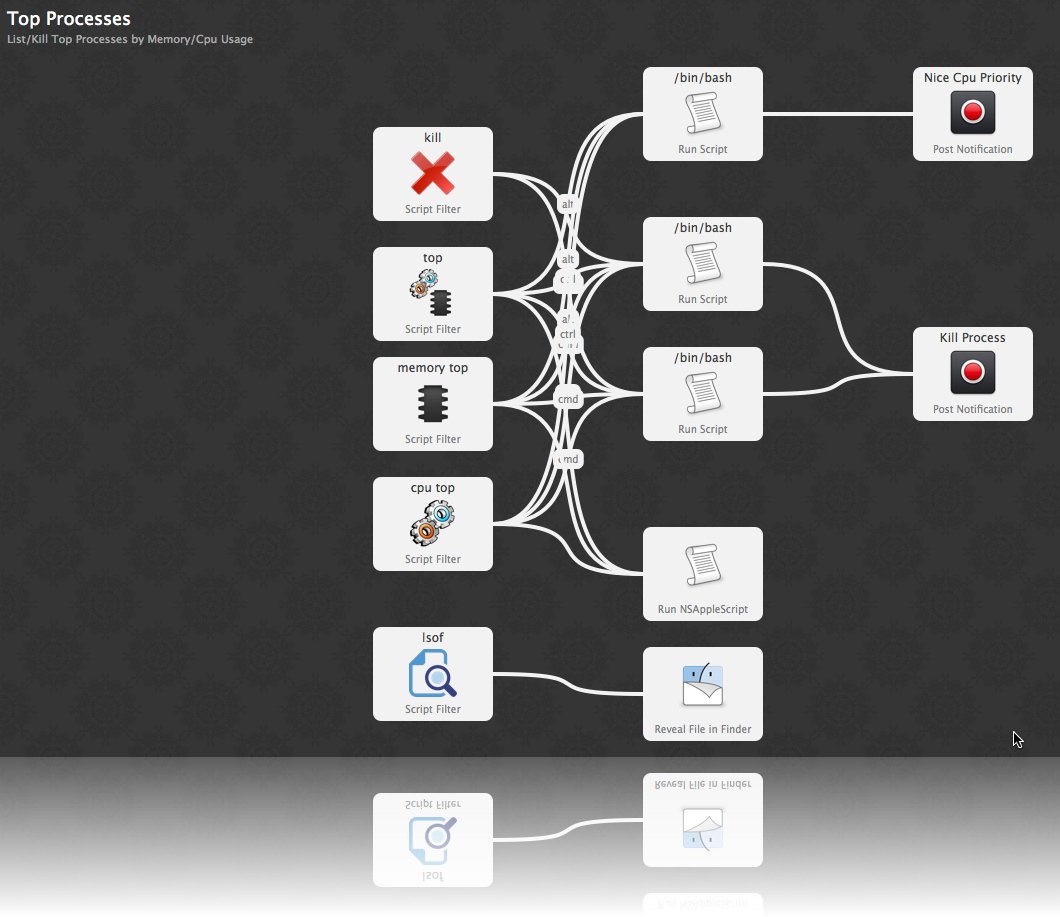
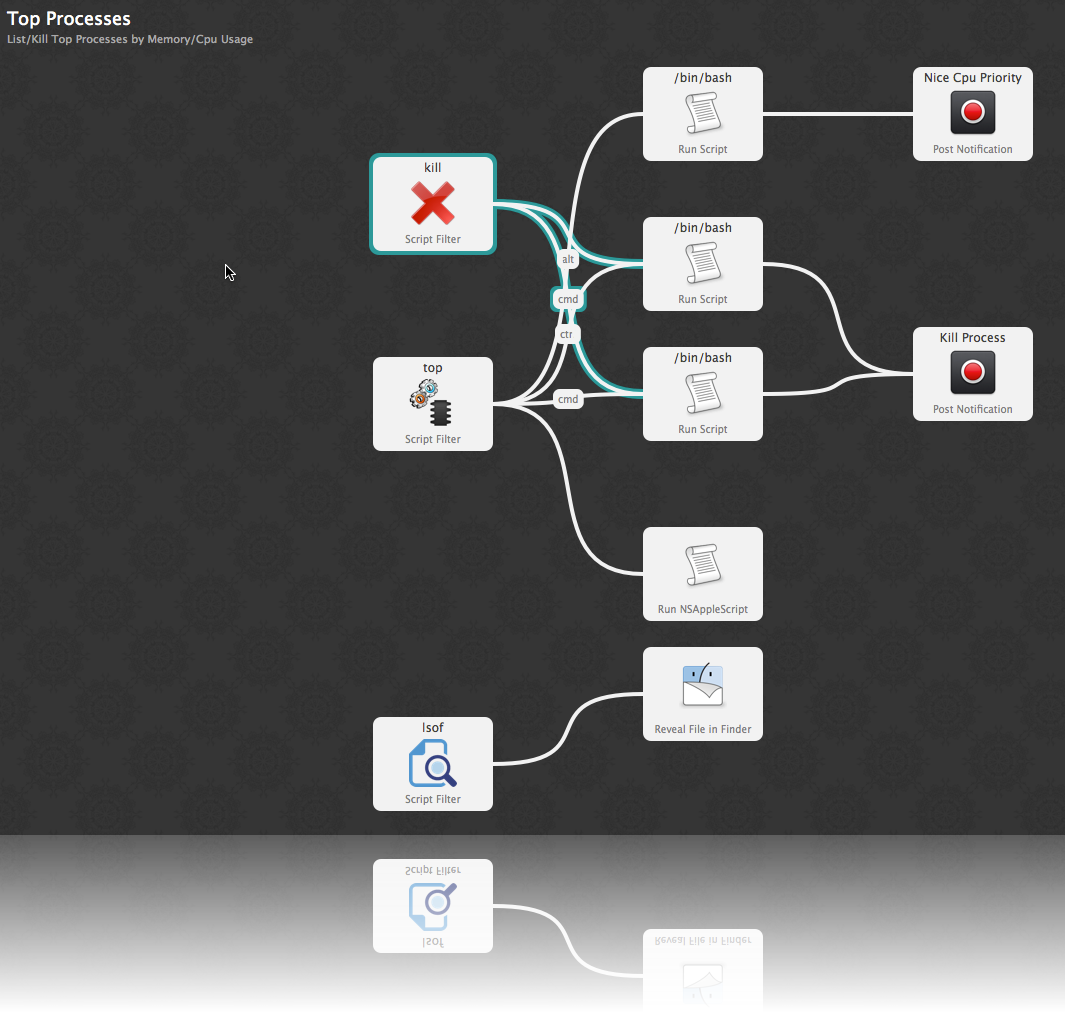
[Release]( 1.3 / refine keywords )

diff --git a/top/alfred2_top_workflow.rb b/top/alfred2_top_workflow.rb
@@ -7,7 +7,7 @@
 # HomePage       : https://github.com/zhaocai/alfred2-top-workflow
 # Version        : 0.1
 # Date Created   : Sun 10 Mar 2013 09:59:48 PM EDT
-# Last Modified  : Fri 29 Mar 2013 09:58:24 PM EDT
+# Last Modified  : Fri 29 Mar 2013 11:40:26 PM EDT
 # Tag            : [ ruby, alfred, workflow ]
 # Copyright      : © 2013 by Zhao Cai,
 #                  Released under current GPL license.
@@ -19,7 +19,6 @@ require 'rubygems' unless defined? Gem # rubygems is only needed in 1.8
 require "bundle/bundler/setup"
 require "alfred"
 
-require 'optparse'
 require 'open3'
 
 # (#
@@ -57,44 +56,6 @@ $additional_states = {
     'X' => 'being traced or debugged'
 }
 
-def parse_opt()
-  options = {:sort => :auto}
-
-  optparse = OptionParser.new do |opts|
-    opts.on("--sort [TYPE]", [:auto, :memory, :cpu],
-            "sort processes by (memory, cpu, auto)") do |t|
-      options[:sort] = t
-    end
-
-    # opts.on('-n', "--n [N]", OptionParser::DecimalInteger,
-    #         "list top N processes") do |t|
-    #   options[:num] = t
-    # end
-
-    opts.on('-h', '--help', 'Help Message') do
-      puts opts
-      exit
-    end
-  end
-
-  # parse and check mandatory options
-  begin
-    optparse.parse!
-    mandatory = []
-    missing = mandatory.select{ |param| options[param].nil? }
-    if not missing.empty?
-      puts "Missing options: #{missing.join(', ')}"
-      puts optparse
-      exit
-    end
-  rescue OptionParser::InvalidOption, OptionParser::MissingArgument
-    puts $!.to_s
-    puts optparse
-    exit
-  end
-
-  return options
-end
 
 
 # (#
@@ -183,8 +144,8 @@ end
 
 
 
-def top_processes(options)
-  if options[:sort] == :auto
+def top_processes(sort_option)
+  if sort_option == :auto
     psm = ps_list(:memory, $ignored_processes)
     psc = ps_list(:cpu, $ignored_processes)
 
@@ -198,9 +159,9 @@ def top_processes(options)
       processes[id] = p
     end
     return processes
-  elsif options[:sort] == :memory
+  elsif sort_option == :memory
     return ps_list(:memory, $ignored_processes)
-  elsif options[:sort] == :cpu
+  elsif sort_option == :cpu
     return ps_list(:cpu, $ignored_processes)
   end
 
@@ -255,8 +216,15 @@ if __FILE__ == $PROGRAM_NAME
   Alfred.with_friendly_error do |alfred|
     alfred.with_rescue_feedback = true
 
-    options = parse_opt()
-    processes = top_processes(options)
+    sort_option = :auto
+    if ['/m', '/mem', '/memory'].include? ARGV[0]
+      sort_option = :memory
+      ARGV.shift
+    elsif ['/c', '/cpu'].include? ARGV[0]
+      sort_option = :cpu
+      ARGV.shift
+    end
+    processes = top_processes(sort_option)
 
     generate_feedback(alfred, processes, ARGV)
   end

diff --git a/README.md b/README.md
@@ -9,15 +9,16 @@ Alfred 2 Workflow to List/Kill Top Processes by Memory/Cpu Usage. The initial mo
 ### A. Keywords:
 
 1. `top`: Show a mixed processes list based on top cpu/memory usage.
-3. `memory top`: Processes list based on top memory usage
-4. `cpu top`: Processes list based on top cpu usage
+>   - `top /m`, `top /mem`, `top /memory` to show processes ranked by memory usage
+>   - `top /c`, `top /cpu`, to show processes ranked by cpu usage
+
 1. `kill`: Filter process to kill.
 2. `lsof`: List files opened by process id
 
 
 ### B. Modifier Key
 
-#### Keywords: `top`, `cpu top`, `memory top`
+#### Keywords: `top`
 
 1. `none`: The default action is to list files opened by process ID
 2. `^` key to `kill`
